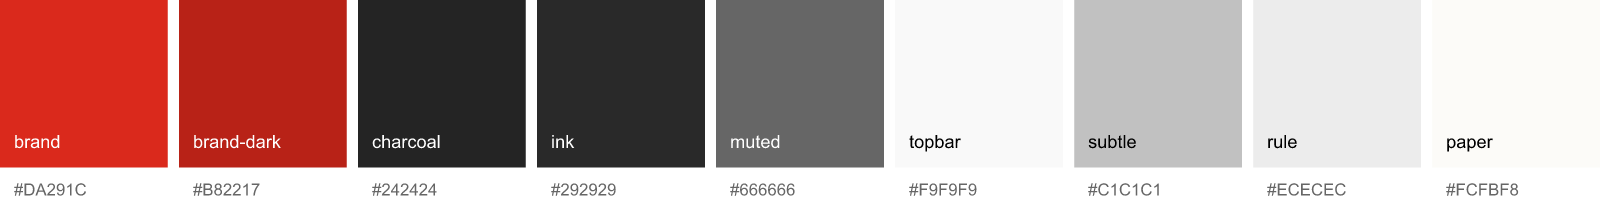
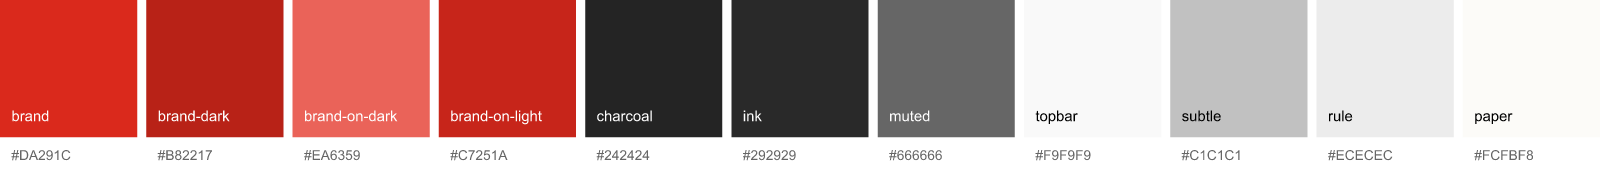
Add the accessible brand text colours to the tebin theme
The two reds that took tebin.pro from 1118 failing text nodes to zero on
2026-07-30 lived only in the site's stylesheet, so every consumer of the
design system still got the palette as it was before that fix.

Also makes the colors.csv translucent-scale assertion check a token's
group rather than the substring "on-dark", which the new opaque
color.brand-on-dark legitimately contains.

diff --git a/test/tokens.test.ts b/test/tokens.test.ts
@@ -1,0 +1,41 @@
+import { describe, it, expect } from 'vitest';
+import { readFileSync } from 'node:fs';
+import { fileURLToPath } from 'node:url';
+import { dirname, join } from 'node:path';
+
+const root = join(dirname(fileURLToPath(import.meta.url)), '..');
+const load = (id: string) =>
+  JSON.parse(readFileSync(join(root, 'themes', id, 'tokens.json'), 'utf8'));
+
+describe('accessible brand text colours', () => {
+  const tokens = load('tebin');
+
+  it('carries a red that clears AA on dark surfaces', () => {
+    expect(tokens.color['brand-on-dark'].$value).toBe('#EA6359');
+  });
+
+  it('carries a red that clears AA on light surfaces', () => {
+    expect(tokens.color['brand-on-light'].$value).toBe('#C7251A');
+  });
+
+  it('names the surface each was measured against', () => {
+    expect(tokens.color['brand-on-dark'].$description).toContain('#242830');
+    expect(tokens.color['brand-on-light'].$description).toContain('#EFEEE9');
+  });
+
+  it('says the identity red is still the one for fills and large text', () => {
+    expect(tokens.color['brand-on-dark'].$description).toContain('fills');
+    expect(tokens.color['brand-on-dark'].$description).toContain('large text');
+  });
+
+  it('invents no print values for them', () => {
+    expect(tokens.color['brand-on-dark'].$extensions).toBeUndefined();
+    expect(tokens.color['brand-on-light'].$extensions).toBeUndefined();
+  });
+
+  it('does not copy them into the print theme, where they were never measured', () => {
+    const classic = load('tebin-classic');
+    expect(classic.color['brand-on-dark']).toBeUndefined();
+    expect(classic.color['brand-on-light']).toBeUndefined();
+  });
+});

diff --git a/test/colors-csv.test.ts b/test/colors-csv.test.ts
@@ -50,6 +50,13 @@ describe('buildColorsCsv', () => {
   it('excludes the translucent scale', () => {
     const tebin = buildColorsCsv(join(root, 'themes', 'tebin'));
     expect(tebin).not.toContain('rgba');
-    expect(tebin).not.toContain('on-dark');
+    // Assert on the token's group, not on the substring "on-dark": the opaque
+    // color.brand-on-dark is a real colour that belongs in the spreadsheet and
+    // happens to contain it.
+    const tokens = tebin.trim().split(/\r?\n/).slice(1).map((l) => l.split(',')[0]);
+    for (const group of ['on-dark', 'on-light', 'rule-dark', 'rule-light', 'surface-dark', 'brand']) {
+      expect(tokens.some((t) => t.startsWith(`${group}.`)), group).toBe(false);
+    }
+    expect(tokens).toContain('color.brand-on-dark');
   });
 });

diff --git a/themes/tebin/dist/tokens.css b/themes/tebin/dist/tokens.css
@@ -5,6 +5,8 @@
 :root {
   --color-brand: #da291c;
   --color-brand-dark: #b82217;
+  --color-brand-on-dark: #ea6359; /** Small red TEXT on dark surfaces only. 4.5:1 on #242830, the lightest dark surface in use, and more on every darker one. The identity red #DA291C stays the colour for the logo, fills, borders and large text, which need only 3:1. */
+  --color-brand-on-light: #c7251a; /** Small red TEXT on light surfaces only. 4.87:1 on #EFEEE9 and 5.32:1 on #F8F8F4. No single red clears 4.5:1 on both surface families: the luminance window is empty for any hue, so this is two tokens by arithmetic, not by preference. */
   --color-charcoal: #242424;
   --color-ink: #292929;
   --color-muted: #666666;

diff --git a/themes/tebin/dist/theme.ts b/themes/tebin/dist/theme.ts
@@ -2,6 +2,8 @@ export const tebin = {
   "color": {
     "brand": "#DA291C",
     "brand-dark": "#B82217",
+    "brand-on-dark": "#EA6359",
+    "brand-on-light": "#C7251A",
     "charcoal": "#242424",
     "ink": "#292929",
     "muted": "#666666",

diff --git a/themes/tebin/dist/tailwind.css b/themes/tebin/dist/tailwind.css
@@ -1,6 +1,8 @@
 @theme {
   --color-brand: #da291c;
   --color-brand-dark: #b82217;
+  --color-brand-on-dark: #ea6359;
+  --color-brand-on-light: #c7251a;
   --color-charcoal: #242424;
   --color-ink: #292929;
   --color-muted: #666666;

diff --git a/themes/tebin/DESIGN.md b/themes/tebin/DESIGN.md
@@ -21,6 +21,8 @@ Roboto Condensed type.
 | --- | --- | --- | --- | --- | --- |
 | `color.brand` | `#DA291C` | 218, 41, 28 | not specified in the 2017 brand book | not specified in the 2017 brand book | — |
 | `color.brand-dark` | `#B82217` | 184, 34, 23 | not specified in the 2017 brand book | not specified in the 2017 brand book | — |
+| `color.brand-on-dark` | `#EA6359` | 234, 99, 89 | not specified in the 2017 brand book | not specified in the 2017 brand book | Small red TEXT on dark surfaces only. 4.5:1 on #242830, the lightest dark surface in use, and more on every darker one. The identity red #DA291C stays the colour for the logo, fills, borders and large text, which need only 3:1. |
+| `color.brand-on-light` | `#C7251A` | 199, 37, 26 | not specified in the 2017 brand book | not specified in the 2017 brand book | Small red TEXT on light surfaces only. 4.87:1 on #EFEEE9 and 5.32:1 on #F8F8F4. No single red clears 4.5:1 on both surface families: the luminance window is empty for any hue, so this is two tokens by arithmetic, not by preference. |
 | `color.charcoal` | `#242424` | 36, 36, 36 | not specified in the 2017 brand book | not specified in the 2017 brand book | — |
 | `color.ink` | `#292929` | 41, 41, 41 | not specified in the 2017 brand book | not specified in the 2017 brand book | — |
 | `color.muted` | `#666666` | 102, 102, 102 | not specified in the 2017 brand book | not specified in the 2017 brand book | — |

diff --git a/docs/plans/2026-08-27-token-depth.md b/docs/plans/2026-08-27-token-depth.md
@@ -117,7 +117,8 @@ describe('accessible brand text colours', () => {
   });
 
   it('says the identity red is still the one for fills and large text', () => {
-    expect(tokens.color['brand-on-dark'].$description).toContain('small text');
+    expect(tokens.color['brand-on-dark'].$description).toContain('fills');
+    expect(tokens.color['brand-on-dark'].$description).toContain('large text');
   });
 
   it('invents no print values for them', () => {
